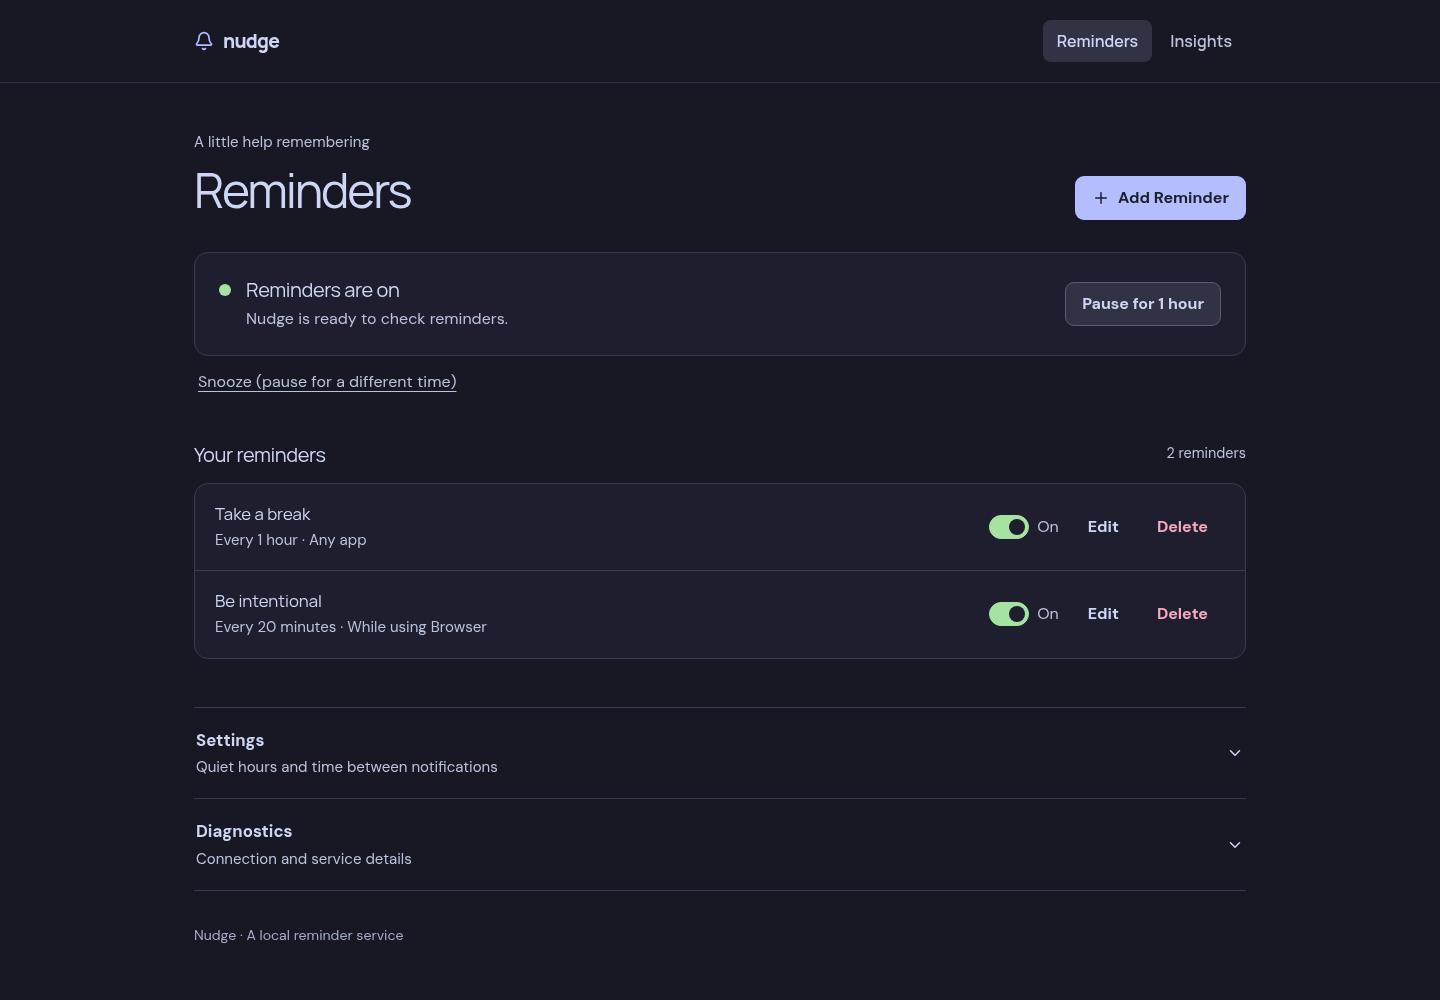
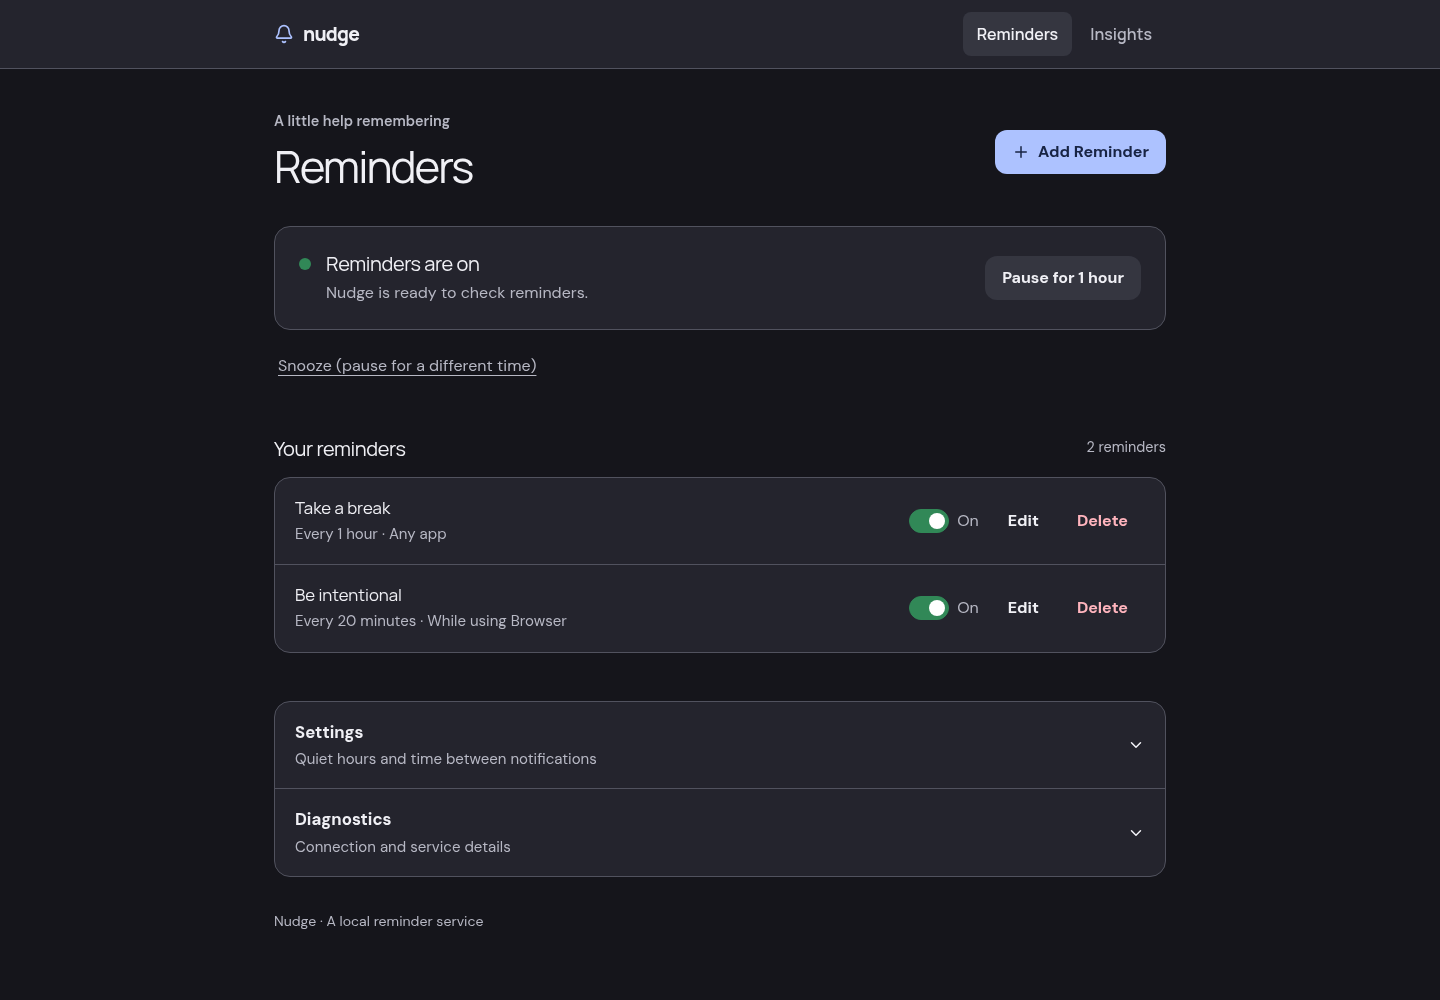
Refine touch-friendly reminder interface

diff --git a/frontend/src/App.svelte b/frontend/src/App.svelte
@@ -29,6 +29,8 @@
   let editing = $state<number | null>(null);
   let settings = $state<Config | null>(null);
   let snoozeDuration = $state('15m');
+  let closing = $state(false);
+  let editorDialog = $state<HTMLDialogElement>();
   let revision = '';
   let originalDraft = '';
   let originalSettings = '';
@@ -86,25 +88,35 @@
     finally { saving = false; }
   }
   function openEditor(index: number | null) {
-    if (!config || saving || settings) return;
+    if (!config || saving || settings || closing) return;
     if (draft && dirty && !window.confirm('Discard your unsaved reminder changes?')) return;
     editing = index;
     draft = index === null ? { kind: 'every', every: '30m', message: '', app: '' } : { ...config.reminders[index], app: config.reminders[index].kind === 'watch' ? config.reminders[index].app : '' };
     originalDraft = JSON.stringify(draft);
     void loadApps();
-    void tick().then(() => document.getElementById('message')?.focus());
+    void tick().then(() => { editorDialog?.showModal(); document.getElementById('message')?.focus(); });
+  }
+  async function closeEditor() {
+    if (closing) return;
+    closing = true;
+    if (!window.matchMedia('(prefers-reduced-motion: reduce)').matches) {
+      await new Promise<void>(resolve => window.setTimeout(resolve, 150));
+    }
+    editorDialog?.close();
+    draft = null; editing = null;
+    closing = false;
   }
   function cancelEditor() {
-    if (dirty && !window.confirm('Discard your unsaved reminder changes?')) return;
-    draft = null; editing = null;
+    if (saving || closing || (dirty && !window.confirm('Discard your unsaved reminder changes?'))) return;
+    void closeEditor();
   }
   async function saveReminder() {
-    if (!config || !draft) return;
+    if (!config || !draft || closing) return;
     const reminder = { ...draft, kind: draft.app ? 'watch' as const : 'every' as const };
     if (!reminder.app) delete reminder.app;
     const reminders = [...config.reminders];
     if (editing === null) reminders.push(reminder); else reminders[editing] = reminder;
-    if (await saveConfig({ ...config, reminders })) { draft = null; editing = null; }
+    if (await saveConfig({ ...config, reminders })) await closeEditor();
   }
   async function toggleReminder(index: number, enabled: boolean) {
     if (!config) return;
@@ -128,6 +140,7 @@
   }
   async function reloadConfig() {
     if (dirty && !window.confirm('Discard your unsaved changes and reload?')) return;
+    editorDialog?.close();
     draft = null; settings = null; editing = null;
     await loadConfig();
   }
@@ -160,6 +173,8 @@
     if (next === page) return;
     if (insightsBusy) return;
     if (page === 'insights' && insightsDirty && !window.confirm('Discard unsaved history settings?')) return;
+    if (page === 'reminders' && (saving || (dirty && !window.confirm('Discard your unsaved changes?')))) return;
+    if (page === 'reminders') { draft = null; settings = null; editing = null; }
     insightsDirty = false;
     page = next;
   }
@@ -168,7 +183,8 @@
 <svelte:head><title>Nudge — {page === 'reminders' ? 'Reminders' : 'Insights'}</title><meta name="description" content="Manage Nudge reminders and insights." /></svelte:head>
 
 <header class="site-header"><div class="brand"><Bell size={20} aria-hidden="true" /><span>nudge</span><nav class="main-nav" aria-label="Main navigation"><button type="button" aria-current={page === 'reminders' ? 'page' : undefined} disabled={insightsBusy} onclick={() => navigate('reminders')}>Reminders</button><button type="button" aria-current={page === 'insights' ? 'page' : undefined} onclick={() => navigate('insights')}>Insights</button></nav></div></header>
-<main>
+<a class="skip-link" href="#main-content">Skip to content</a>
+<main id="main-content">
   {#if page === 'reminders'}
   <div class="page-heading"><div><p class="eyebrow">A little help remembering</p><h1>Reminders</h1></div><button class="button primary" type="button" onclick={() => openEditor(null)} disabled={!config || saving || !!settings}><Plus size={18} aria-hidden="true" /> Add Reminder</button></div>
   {#if notice}<div class="feedback success" role="status">{notice}<button class="text-button" type="button" onclick={() => notice = ''}>Dismiss</button></div>{/if}
@@ -190,14 +206,15 @@
     {/each}</div>{/if}
   </section>
 
-  {#if draft}<section class="editor" aria-labelledby="editor-heading"><h2 id="editor-heading">{editing === null ? 'Add Reminder' : 'Edit Reminder'}</h2><form onsubmit={(event) => { event.preventDefault(); void saveReminder(); }}>
+  {#if draft}<dialog class="editor" class:closing bind:this={editorDialog} aria-labelledby="editor-heading" oncancel={(event) => { event.preventDefault(); cancelEditor(); }} onclick={(event) => { if (editorDialog && event.target === editorDialog) { const rect = editorDialog.getBoundingClientRect(); if (event.clientX < rect.left || event.clientX > rect.right || event.clientY < rect.top || event.clientY > rect.bottom) cancelEditor(); } }}><h2 id="editor-heading">{editing === null ? 'Add Reminder' : 'Edit Reminder'}</h2><form onsubmit={(event) => { event.preventDefault(); void saveReminder(); }}>
+    {#if configError}<div class="feedback error" role="alert"><span>Could not save reminder: {configError}</span><button class="text-button" type="button" onclick={reloadConfig} disabled={saving}>Reload saved configuration</button></div>{/if}
     <label for="message">Remind me to</label><input id="message" bind:value={draft.message} required placeholder="Take a break" />
     <label for="frequency">Remind me every</label><Interval id="frequency" bind:value={draft.every} />
     <label for="app-choice">Only while using</label><select id="app-choice" bind:value={draft.app}><option value="">Any app</option>{#if draft.app && !apps.some(app => app.id === draft?.app)}<option value={draft.app}>{appName(draft.app)} (not currently open)</option>{/if}{#each apps as app}<option value={app.id}>{app.name}</option>{/each}</select>
     {#if appsError}<p class="help">Open apps are unavailable: {appsError} You can still use any app or enter an app ID below.</p>{:else if apps.length === 0}<p class="help">No open apps found. You can still use any app or enter an app ID below.</p>{/if}
     <details class="advanced"><summary>Advanced: enter an app ID</summary><label for="app-id">App ID</label><input id="app-id" bind:value={draft.app} placeholder="e.g. firefox" /><p class="help">Leave blank to remind you in any app. App IDs are saved exactly as entered.</p></details>
     <div class="form-actions"><button class="button quiet" type="button" onclick={cancelEditor} disabled={saving}>Cancel</button><button class="button primary" type="submit" disabled={saving}>{saving ? 'Saving…' : editing === null ? 'Add Reminder' : 'Save'}</button></div>
-  </form></section>{/if}
+  </form></dialog>{/if}
 
   <div class="additional"><details class="disclosure"><summary><span><strong>Settings</strong><small>Quiet hours and time between notifications</small></span><ChevronDown size={18} aria-hidden="true" /></summary><div class="disclosure-content">{#if !settings}<p>Choose when reminders are quiet and how much time to leave between notifications.</p><button class="button secondary" type="button" onclick={openSettings} disabled={!config || !!draft || saving}>Edit settings</button>{:else}<form onsubmit={(event) => { event.preventDefault(); void saveSettings(); }}><label for="cooldown">Time between notifications</label><Interval id="cooldown" bind:value={settings.cooldown} /><p class="help">The minimum time between any two notifications.</p><div class="time-fields"><div><label for="quiet-start">Quiet hours start</label><input id="quiet-start" type="time" bind:value={settings.quiet_start} /></div><div><label for="quiet-end">Quiet hours end</label><input id="quiet-end" type="time" bind:value={settings.quiet_end} /></div></div><p class="help">Leave both times blank to turn off quiet hours.</p><div class="form-actions"><button class="button quiet" type="button" onclick={cancelSettings} disabled={saving}>Cancel</button><button class="button primary" type="submit" disabled={saving}>{saving ? 'Saving…' : 'Save settings'}</button></div></form>{/if}</div></details>
   <details class="disclosure"><summary><span><strong>Diagnostics</strong><small>Connection and service details</small></span><ChevronDown size={18} aria-hidden="true" /></summary><div class="disclosure-content">{#if diagnosticsError}<p role="alert">{diagnosticsError} <button class="text-button" type="button" onclick={loadDiagnostics}>Try again</button></p>{/if}{#if diagnostics}<dl><div><dt>Notification executable <small>Availability only; delivery is not verified.</small></dt><dd>{diagnostics.notification_available ? 'Available' : 'Unavailable'}</dd></div><div><dt>Niri connection</dt><dd>{diagnostics.niri_error || 'No errors reported'}</dd></div><div><dt>Configuration</dt><dd>{diagnostics.config_error || 'No errors reported'}</dd></div><div><dt>Scheduler</dt><dd>{status?.scheduler_error || (status ? 'No errors reported' : 'Unavailable')}</dd></div><div><dt>Focused app</dt><dd>{!status?.focus_known ? 'Unavailable' : status.focused_app || 'No app focused'}</dd></div><div><dt>Next reminder</dt><dd>{status ? formatDate(status.next_reminder) : 'Unavailable'}<small>{status?.next_description}</small></dd></div><div><dt>Matching reminders</dt><dd>{status?.matching_rules_known ? status.active_rules.join(', ') || 'None' : 'Unavailable'}</dd></div><div><dt>Version</dt><dd>{diagnostics.version || 'Unknown'}</dd></div></dl>{:else if !diagnosticsError}<p>Loading diagnostics…</p>{/if}<button class="button quiet" type="button" onclick={() => { void loadStatus(); void loadDiagnostics(); void loadApps(); }}>Refresh diagnostics</button></div></details></div>

diff --git a/frontend/src/app.css b/frontend/src/app.css
@@ -119,7 +119,7 @@ footer { color: #a6adc8; font-size: .88rem; margin-top: 34px; }
 .chart-scroll.recent { direction: rtl; }
 .chart-scroll.recent .bar-chart { direction: ltr; }
 .bar-chart, .hour-chart { display: flex; align-items: stretch; min-width: 550px; height: 198px; gap: 4px; margin-top: 20px; }
-.bar-chart.week { min-width: 350px; }
+.bar-chart.week, .hour-chart { min-width: 350px; }
 .day-column, .hour-column { flex: 1; min-width: 0; display: flex; flex-direction: column; align-items: center; }
 .bar-pair, .hour-plot { display: flex; justify-content: center; align-items: end; gap: 3px; height: 160px; width: 100%; border-bottom: 1px solid #9399b2; }
 .bar { display: block; width: min(18px, 42%); border-radius: 3px 3px 0 0; min-height: 0; }
@@ -165,4 +165,140 @@ footer { color: #a6adc8; font-size: .88rem; margin-top: 34px; }
   .main-nav button { padding-inline: 10px; }
   .insights-heading { align-items: flex-start; flex-direction: column; }
   .app-row { grid-template-columns: minmax(90px, 1fr) minmax(70px, 1fr) auto; gap: 8px; }
+}
+
+/* A grouped, touch-friendly interface that follows the system appearance. */
+:root {
+  color-scheme: light dark;
+  --background: #f2f2f7;
+  --foreground: #1c1c24;
+  --muted: #555662;
+  --surface: #fff;
+  --raised: #e8e8ef;
+  --border: #d1d1dc;
+  --accent: #365bc5;
+  --accent-text: #fff;
+  --danger: #ae293b;
+  --success: #216b48;
+  --success-bg: #e1f3e8;
+  --error-bg: #fbe9eb;
+  --control: #fff;
+  --chart-secondary: #327087;
+  --switch-off: #767984;
+}
+@media (prefers-color-scheme: dark) {
+  :root {
+    --background: #15151b;
+    --foreground: #f0f0f5;
+    --muted: #b7b8c4;
+    --surface: #24242d;
+    --raised: #353640;
+    --border: #51525e;
+    --accent: #adc2ff;
+    --accent-text: #182444;
+    --danger: #ffb4bd;
+    --success: #a7dfb8;
+    --success-bg: #213b30;
+    --error-bg: #49272e;
+    --control: #1b1b22;
+    --chart-secondary: #8bc8dd;
+    --switch-off: #777985;
+  }
+}
+:root { color: var(--foreground); background: var(--background); }
+body { background: var(--background); }
+:focus-visible { outline-color: var(--accent); }
+.site-header { background: var(--surface); border-color: var(--border); }
+.brand { color: var(--foreground); max-width: 940px; padding-block: 12px; }
+main { max-width: 940px; padding-top: 42px; }
+h1 { font-size: clamp(2rem, 5vw, 2.75rem); }
+.page-heading { align-items: center; }
+.eyebrow { font-size: .9rem; font-weight: 600; }
+.button { border-radius: 12px; }
+.primary { color: var(--accent-text); background: var(--accent); }
+.primary:hover:not(:disabled) { background: var(--accent); filter: brightness(.9); }
+.secondary { color: var(--foreground); background: var(--raised); border-color: transparent; }
+.secondary:hover:not(:disabled), .quiet:hover:not(:disabled) { background: var(--border); }
+.quiet { color: var(--foreground); }
+.danger { color: var(--danger); }
+.text-button { min-height: 44px; }
+.feedback.success { background: var(--success-bg); color: var(--success); }
+.feedback.error { background: var(--error-bg); color: var(--danger); }
+.status, .reminder-list, .empty { background: var(--surface); border-color: var(--border); border-radius: 16px; }
+.status-indicator { background: #b77913; }
+.status-indicator.active { background: #318857; }
+.reminder + .reminder { border-color: var(--border); }
+.empty strong { color: var(--foreground); }
+.switch-label input, .privacy-toggle input { background: var(--switch-off); border-color: var(--switch-off); }
+.switch-label input::before, .privacy-toggle input::before { background: #fff; }
+.switch-label input:checked, .privacy-toggle input:checked { background: #318857; border-color: #318857; }
+.switch-label input:checked::before, .privacy-toggle input:checked::before { background: #fff; }
+input:not([type='checkbox']), select { color: var(--foreground); background: var(--control); border-color: var(--border); border-radius: 10px; }
+input::placeholder { color: var(--muted); opacity: 1; }
+.additional { border: 1px solid var(--border); border-radius: 16px; background: var(--surface); overflow: hidden; }
+.disclosure { border-color: var(--border); }
+.disclosure:last-child { border-bottom: 0; }
+.disclosure > summary { padding: 18px 20px; min-height: 64px; }
+.disclosure-content { padding: 0 20px 20px; }
+dl div { border-color: var(--border); }
+footer { color: var(--muted); }
+.main-nav button { min-height: 44px; color: var(--muted); }
+.main-nav button[aria-current='page'], .main-nav button:hover { background: var(--raised); color: var(--foreground); }
+.range-switch button { min-height: 44px; }
+.range-switch button.chosen { background: var(--raised); color: var(--foreground); }
+.insights-notice { color: var(--success); }
+.insights-error { color: var(--danger); }
+.key-attempt, .bar.attempt { background: var(--accent); }
+.key-snooze, .bar.snooze-bar { background: repeating-linear-gradient(135deg, var(--chart-secondary) 0 3px, var(--surface) 3px 5px); border-color: var(--chart-secondary); }
+.bar-pair, .hour-plot { border-color: var(--muted); }
+.data-table summary, .snooze summary, .advanced summary { min-height: 44px; padding-block: 10px; }
+.data-table table { color: var(--foreground); }
+.data-table th, .data-table td { border-color: var(--border); }
+.horizontal-track { background: var(--raised); }
+.horizontal-track > span { background: var(--accent); }
+.focus-track > span { background: var(--chart-secondary); }
+.skip-link { position: fixed; top: 8px; left: 8px; z-index: 10; padding: 10px 14px; background: var(--surface); color: var(--foreground); transform: translateY(-150%); }
+.skip-link:focus { transform: translateY(0); }
+
+dialog.editor {
+  position: fixed;
+  inset: 0;
+  width: min(560px, calc(100% - 32px));
+  max-width: none;
+  max-height: min(90vh, 90dvh);
+  margin: auto;
+  padding: 28px;
+  overflow-y: auto;
+  overscroll-behavior: contain;
+  color: var(--foreground);
+  background: var(--surface);
+  border: 1px solid var(--border);
+  border-radius: 20px;
+  box-shadow: 0 20px 70px #0005;
+}
+dialog.editor::backdrop { background: #11131a99; }
+@keyframes sheet-enter { from { opacity: 0; transform: translateY(14px); } to { opacity: 1; transform: translateY(0); } }
+@keyframes sheet-exit { from { opacity: 1; transform: translateY(0); } to { opacity: 0; transform: translateY(14px); } }
+dialog.editor[open] { animation: sheet-enter 180ms ease-out both; }
+dialog.editor.closing { animation: sheet-exit 150ms ease-in both; pointer-events: none; }
+.button, .main-nav button { transition: transform 100ms ease-out; }
+.button:active:not(:disabled), .main-nav button:active:not(:disabled) { transform: scale(.98); }
+@media (max-width: 650px) {
+  main { padding: 28px 16px 48px; }
+  .brand { padding-inline: 16px; }
+  .page-heading { align-items: flex-start; }
+  .page-heading .button { width: 100%; }
+  .status { padding: 20px; }
+  .status > .button { width: 100%; }
+  .reminders, .additional { margin-top: 32px; }
+  .reminder { padding: 18px; }
+  dialog.editor {
+    inset: auto 0 0;
+    width: 100%;
+    max-height: min(92vh, 92dvh);
+    margin: 0;
+    padding: 24px 20px max(24px, env(safe-area-inset-bottom));
+    border-radius: 20px 20px 0 0;
+  }
+  .editor .form-actions > button { flex: 1; }
 }

diff --git a/README.md b/README.md
@@ -25,7 +25,7 @@ It's easy to lose track of time when using an app. Nudge can ask your desktop to
 
 </details>
 
-Both previews use example data.
+Both previews use example data. Nudge follows your system's light or dark appearance; reminder editing opens in a sheet on phones.
 
 A notification attempt does not prove a notification was displayed or read. Observed window focus is not proof of active use. See [Insights and privacy](docs/usage.md#insights-and-privacy) for what is stored and its limitations.
 
